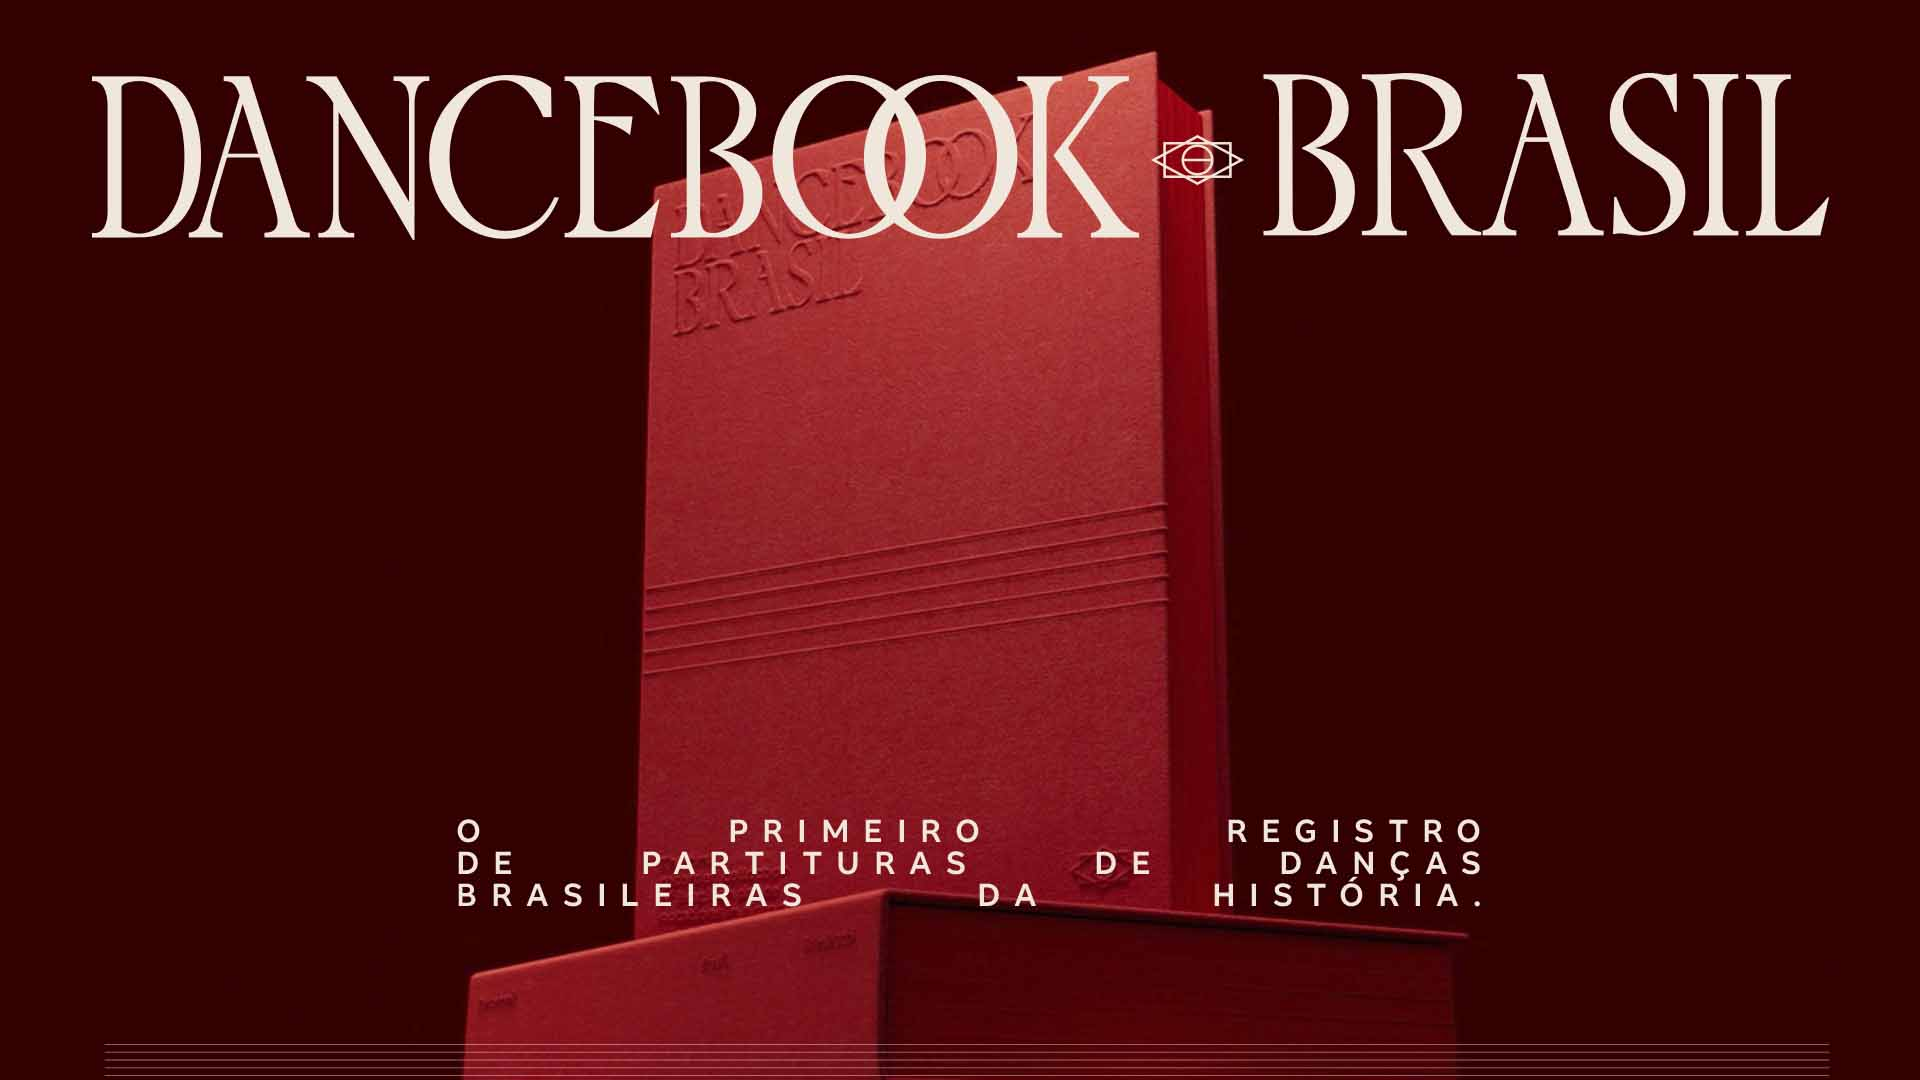
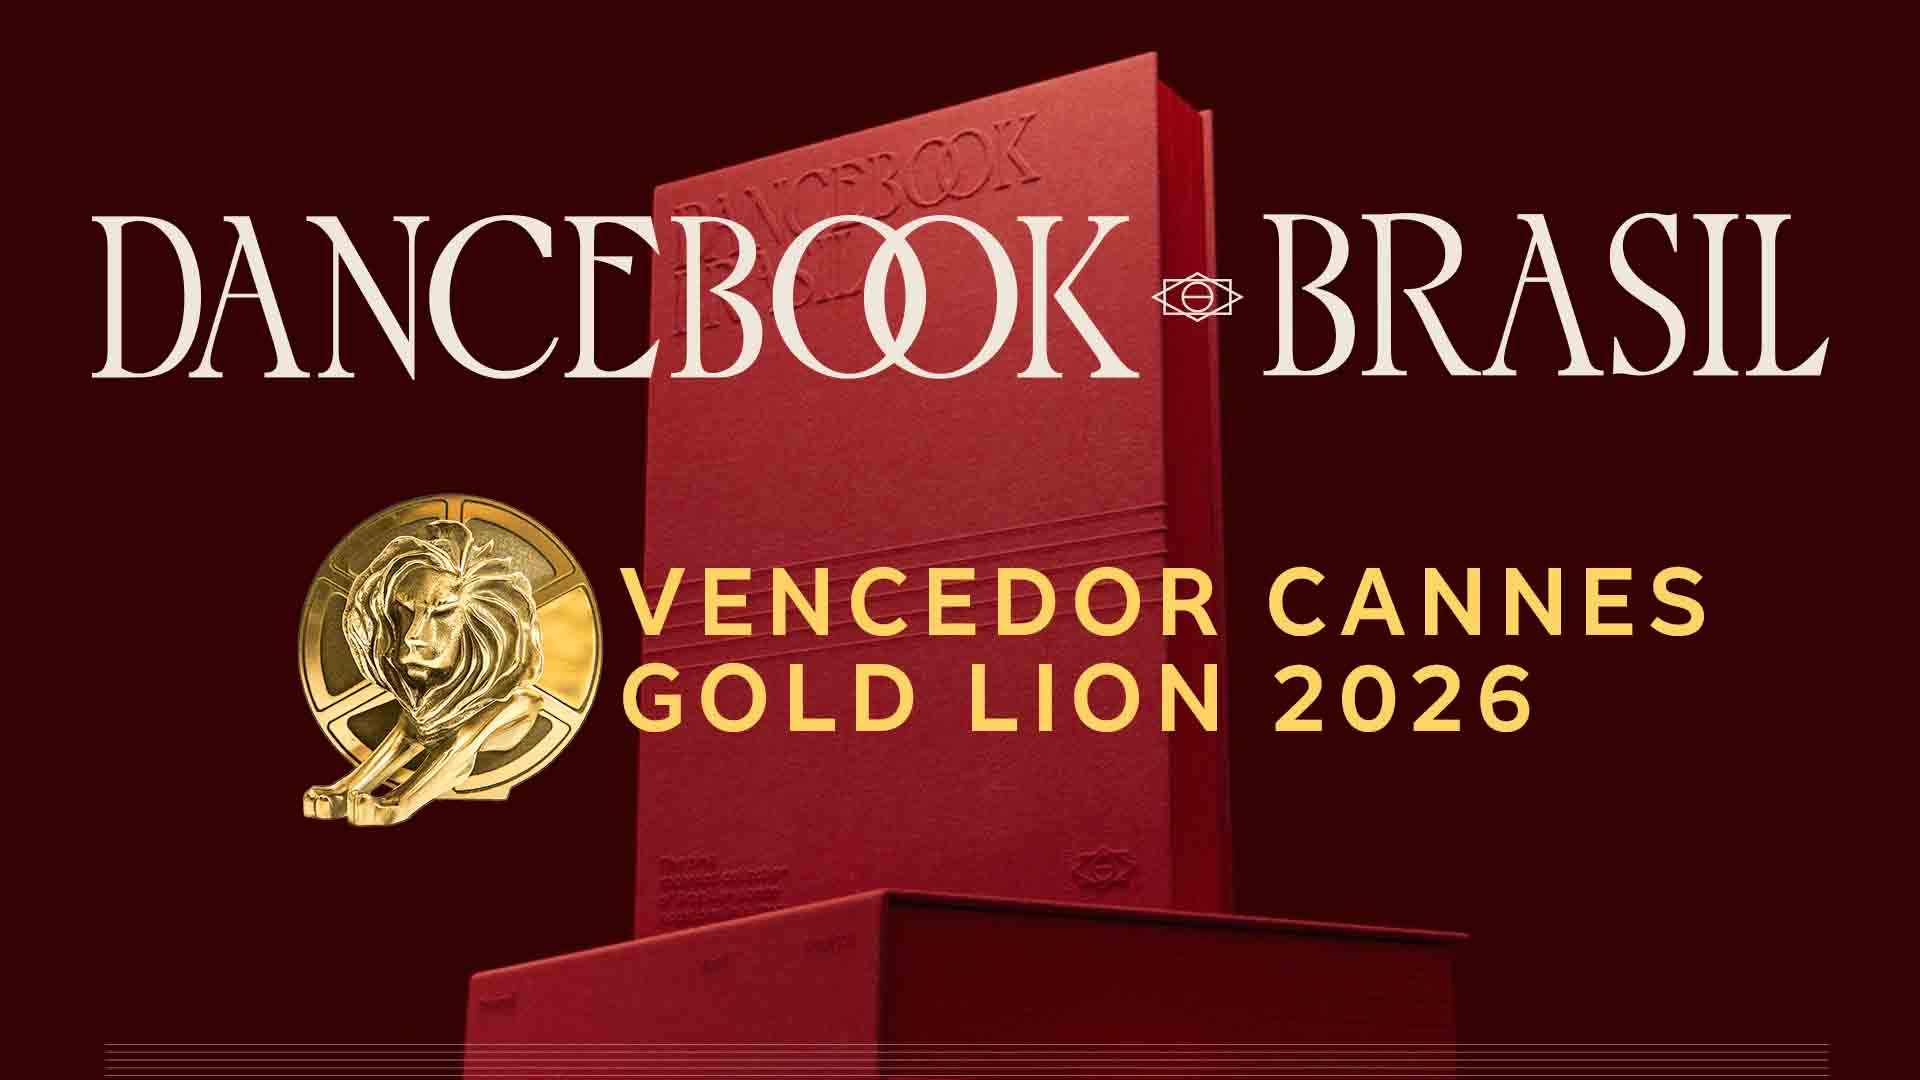
Troca ícone de câmera por play nos cards de projeto e atualiza thumb do Dancebook
Substitui o ícone de câmera (ion-ios-videocam) por um botão de play
(ion-ios-play) no hover dos cards de portfólio, em PT e EN. Atualiza
o thumbnail do Dancebook Brasil com o selo do Leão de Ouro em Cannes.

diff --git a/index.html b/index.html
@@ -469,7 +469,7 @@ Imagens são os moldes de nossas lembranças.
                                                 <div class="post-box-photo-works post-box-photo-works-1 image-works">
                                                     <div class="hover-effect"></div>
                                                     <div class="icon-works">
-                                                        <a class="iw-slide-left ion-ios-videocam popup-vimeo" href="https://vimeo.com/1071968192"></a>
+                                                        <a class="iw-slide-left ion-ios-play popup-vimeo" href="https://vimeo.com/1071968192"></a>
                                                     </div>
                                                 </div>
                                                 <h2 class="post-box-photo-works-heading">
@@ -487,7 +487,7 @@ Imagens são os moldes de nossas lembranças.
                                                 <div class="post-box-photo-works post-box-photo-works-8 image-works">
                                                     <div class="hover-effect"></div>
                                                     <div class="icon-works">
-                                                        <a class="iw-slide-left ion-ios-videocam popup-youtube" href="https://www.youtube.com/watch?v=qMHu93KVfTs"></a>
+                                                        <a class="iw-slide-left ion-ios-play popup-youtube" href="https://www.youtube.com/watch?v=qMHu93KVfTs"></a>
                                                     </div>
                                                 </div>
                                                 <h2 class="post-box-photo-works-heading">
@@ -508,7 +508,7 @@ Imagens são os moldes de nossas lembranças.
                                                 <div class="post-box-photo-works post-box-photo-works-2 image-works">
                                                     <div class="hover-effect"></div>
                                                     <div class="icon-works">
-                                                        <a class="iw-slide-left ion-ios-videocam popup-vimeo" href="https://vimeo.com/1166997708"></a>
+                                                        <a class="iw-slide-left ion-ios-play popup-vimeo" href="https://vimeo.com/1166997708"></a>
                                                     </div>
                                                 </div>
                                                 <h2 class="post-box-photo-works-heading">
@@ -526,7 +526,7 @@ Imagens são os moldes de nossas lembranças.
                                                 <div class="post-box-photo-works post-box-photo-works-3 image-works">
                                                     <div class="hover-effect"></div>
                                                     <div class="icon-works">
-                                                        <a class="iw-slide-left ion-ios-videocam popup-vimeo" href="https://vimeo.com/1125939621"></a>
+                                                        <a class="iw-slide-left ion-ios-play popup-vimeo" href="https://vimeo.com/1125939621"></a>
                                                     </div>
                                                 </div>
                                                 <h2 class="post-box-photo-works-heading">
@@ -547,7 +547,7 @@ Imagens são os moldes de nossas lembranças.
                                                 <div class="post-box-photo-works post-box-photo-works-4 image-works">
                                                     <div class="hover-effect"></div>
                                                     <div class="icon-works">
-                                                        <a class="iw-slide-left ion-ios-videocam popup-vimeo" href="https://vimeo.com/1125951699"></a>
+                                                        <a class="iw-slide-left ion-ios-play popup-vimeo" href="https://vimeo.com/1125951699"></a>
                                                     </div>
                                                 </div>
                                                 <h2 class="post-box-photo-works-heading">
@@ -565,7 +565,7 @@ Imagens são os moldes de nossas lembranças.
                                                 <div class="post-box-photo-works post-box-photo-works-5 image-works">
                                                     <div class="hover-effect"></div>
                                                     <div class="icon-works">
-                                                        <a class="iw-slide-left ion-ios-videocam popup-vimeo" href="https://vimeo.com/1123794473"></a>
+                                                        <a class="iw-slide-left ion-ios-play popup-vimeo" href="https://vimeo.com/1123794473"></a>
                                                     </div>
                                                 </div>
                                                 <h2 class="post-box-photo-works-heading">
@@ -586,7 +586,7 @@ Imagens são os moldes de nossas lembranças.
                                                 <div class="post-box-photo-works post-box-photo-works-6 image-works">
                                                     <div class="hover-effect"></div>
                                                     <div class="icon-works">
-                                                        <a class="iw-slide-left ion-ios-videocam popup-vimeo" href="https://vimeo.com/1123799908"></a>
+                                                        <a class="iw-slide-left ion-ios-play popup-vimeo" href="https://vimeo.com/1123799908"></a>
                                                     </div>
                                                 </div>
                                                 <h2 class="post-box-photo-works-heading">

diff --git a/en/index.html b/en/index.html
@@ -472,7 +472,7 @@
                                                 <div class="post-box-photo-works post-box-photo-works-1 image-works">
                                                     <div class="hover-effect"></div>
                                                     <div class="icon-works">
-                                                        <a class="iw-slide-left ion-ios-videocam popup-vimeo" href="https://vimeo.com/1071968192"></a>
+                                                        <a class="iw-slide-left ion-ios-play popup-vimeo" href="https://vimeo.com/1071968192"></a>
                                                     </div>
                                                 </div>
                                                 <h2 class="post-box-photo-works-heading">
@@ -490,7 +490,7 @@
                                                 <div class="post-box-photo-works post-box-photo-works-8 image-works">
                                                     <div class="hover-effect"></div>
                                                     <div class="icon-works">
-                                                        <a class="iw-slide-left ion-ios-videocam popup-youtube" href="https://www.youtube.com/watch?v=qMHu93KVfTs"></a>
+                                                        <a class="iw-slide-left ion-ios-play popup-youtube" href="https://www.youtube.com/watch?v=qMHu93KVfTs"></a>
                                                     </div>
                                                 </div>
                                                 <h2 class="post-box-photo-works-heading">
@@ -511,7 +511,7 @@
                                                 <div class="post-box-photo-works post-box-photo-works-2 image-works">
                                                     <div class="hover-effect"></div>
                                                     <div class="icon-works">
-                                                        <a class="iw-slide-left ion-ios-videocam popup-vimeo" href="https://vimeo.com/1166997708"></a>
+                                                        <a class="iw-slide-left ion-ios-play popup-vimeo" href="https://vimeo.com/1166997708"></a>
                                                     </div>
                                                 </div>
                                                 <h2 class="post-box-photo-works-heading">
@@ -529,7 +529,7 @@
                                                 <div class="post-box-photo-works post-box-photo-works-3 image-works">
                                                     <div class="hover-effect"></div>
                                                     <div class="icon-works">
-                                                        <a class="iw-slide-left ion-ios-videocam popup-vimeo" href="https://vimeo.com/1125939621"></a>
+                                                        <a class="iw-slide-left ion-ios-play popup-vimeo" href="https://vimeo.com/1125939621"></a>
                                                     </div>
                                                 </div>
                                                 <h2 class="post-box-photo-works-heading">
@@ -550,7 +550,7 @@
                                                 <div class="post-box-photo-works post-box-photo-works-4 image-works">
                                                     <div class="hover-effect"></div>
                                                     <div class="icon-works">
-                                                        <a class="iw-slide-left ion-ios-videocam popup-vimeo" href="https://vimeo.com/1125951699"></a>
+                                                        <a class="iw-slide-left ion-ios-play popup-vimeo" href="https://vimeo.com/1125951699"></a>
                                                     </div>
                                                 </div>
                                                 <h2 class="post-box-photo-works-heading">
@@ -568,7 +568,7 @@
                                                 <div class="post-box-photo-works post-box-photo-works-5 image-works">
                                                     <div class="hover-effect"></div>
                                                     <div class="icon-works">
-                                                        <a class="iw-slide-left ion-ios-videocam popup-vimeo" href="https://vimeo.com/1123794473"></a>
+                                                        <a class="iw-slide-left ion-ios-play popup-vimeo" href="https://vimeo.com/1123794473"></a>
                                                     </div>
                                                 </div>
                                                 <h2 class="post-box-photo-works-heading">
@@ -589,7 +589,7 @@
                                                 <div class="post-box-photo-works post-box-photo-works-6 image-works">
                                                     <div class="hover-effect"></div>
                                                     <div class="icon-works">
-                                                        <a class="iw-slide-left ion-ios-videocam popup-vimeo" href="https://vimeo.com/1123799908"></a>
+                                                        <a class="iw-slide-left ion-ios-play popup-vimeo" href="https://vimeo.com/1123799908"></a>
                                                     </div>
                                                 </div>
                                                 <h2 class="post-box-photo-works-heading">
